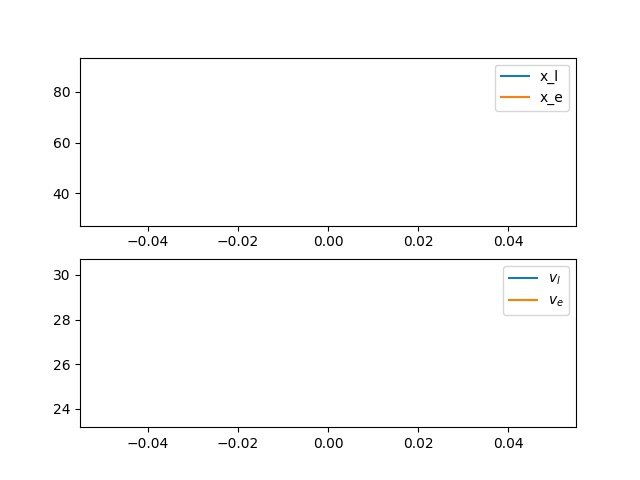
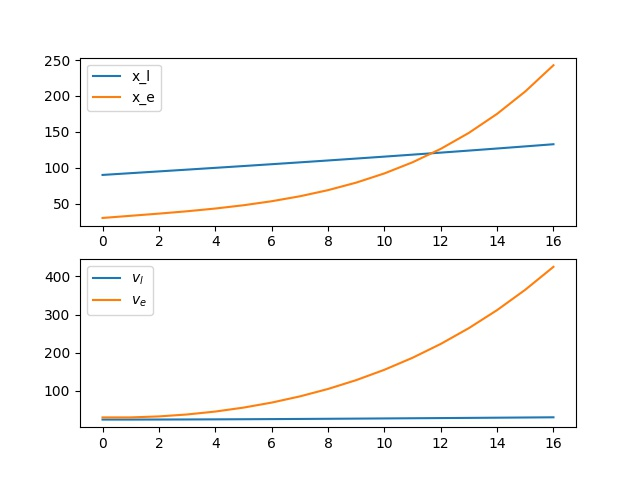
updates

diff --git a/examples/ACC/acc_LP.py b/examples/ACC/acc_LP.py
@@ -67,7 +67,7 @@ def SVG(control_param, view=False):
 	dt = env.deltaT
 	reward = 0
 	while not done:
-		if -reward >= 1000:
+		if -reward >= 20000:
 			break
 		x_l, v_l, r_l, x_e, v_e, r_e = state[0], state[1], state[2], state[3], state[4], state[5]
 		a_l = control_param[0].dot(np.array([1, 1, 1]))
@@ -108,7 +108,7 @@ def SVG(control_param, view=False):
 	vs_prime = np.array([0.0] * 6)
 	vtheta_prime = np.array([[0.0] * 3, [0.0] * 3])
 	gamma = 0.99
-
+	# print(len(state_tra))
 	for i in range(len(state_tra)-1, -1, -1):
 		x_l, v_l, r_l, x_e, v_e, r_e = state_tra[i]
 		a_l, a_e = control_tra[i]
@@ -146,14 +146,17 @@ def SVG(control_param, view=False):
 			[0,0],[0,0],[2*dt,0],[0,0],[0,0],[0,2*dt]
 			])
 		
+		# print(vs_prime)
+
 		vs = rs + gamma * vs_prime.dot(fs + fa.dot(pis))
-		print(vs)
+		# print(vs)
 		pitheta = np.array([
 			[[1,1,1],[0,0,0]], 
 			[[0,0,0],[x_l-x_e,v_l-v_e,r_l-r_e]]
 			])
 		# print(pitheta.shape)
 		# assert False
+		
 		vtheta =  gamma * vs_prime.dot(fa).dot(pitheta) + gamma * vtheta_prime
 		vs_prime = vs
 		vtheta_prime = vtheta
@@ -179,10 +182,10 @@ if __name__ == '__main__':
 	control_param = np.array([-0.0]*6)
 	control_param = np.reshape(control_param, (2, 3))
 	vtheta, state = SVG(control_param)
-	for i in range(500):
+	for i in range(2):
 		vtheta, final_state = SVG(control_param)
-		if i == 0:
-			print(vtheta)
+		# if i == 0:
+		# 	print(vtheta)
 		control_param += 1e-3 * np.clip(vtheta, -1e3, 1e3)
 		# print(vtheta)
 		if i > 10:
